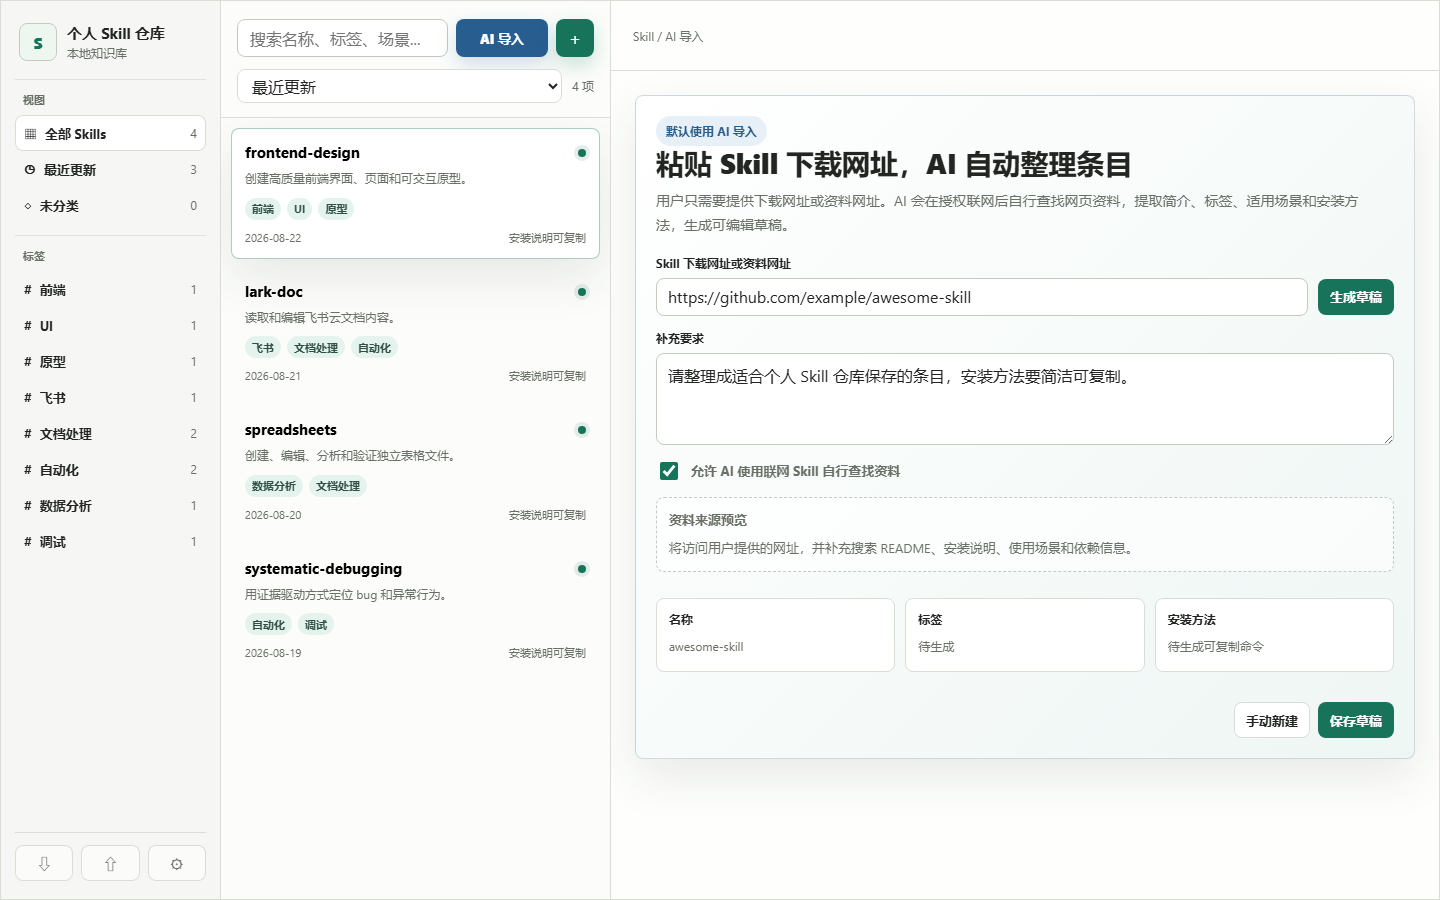
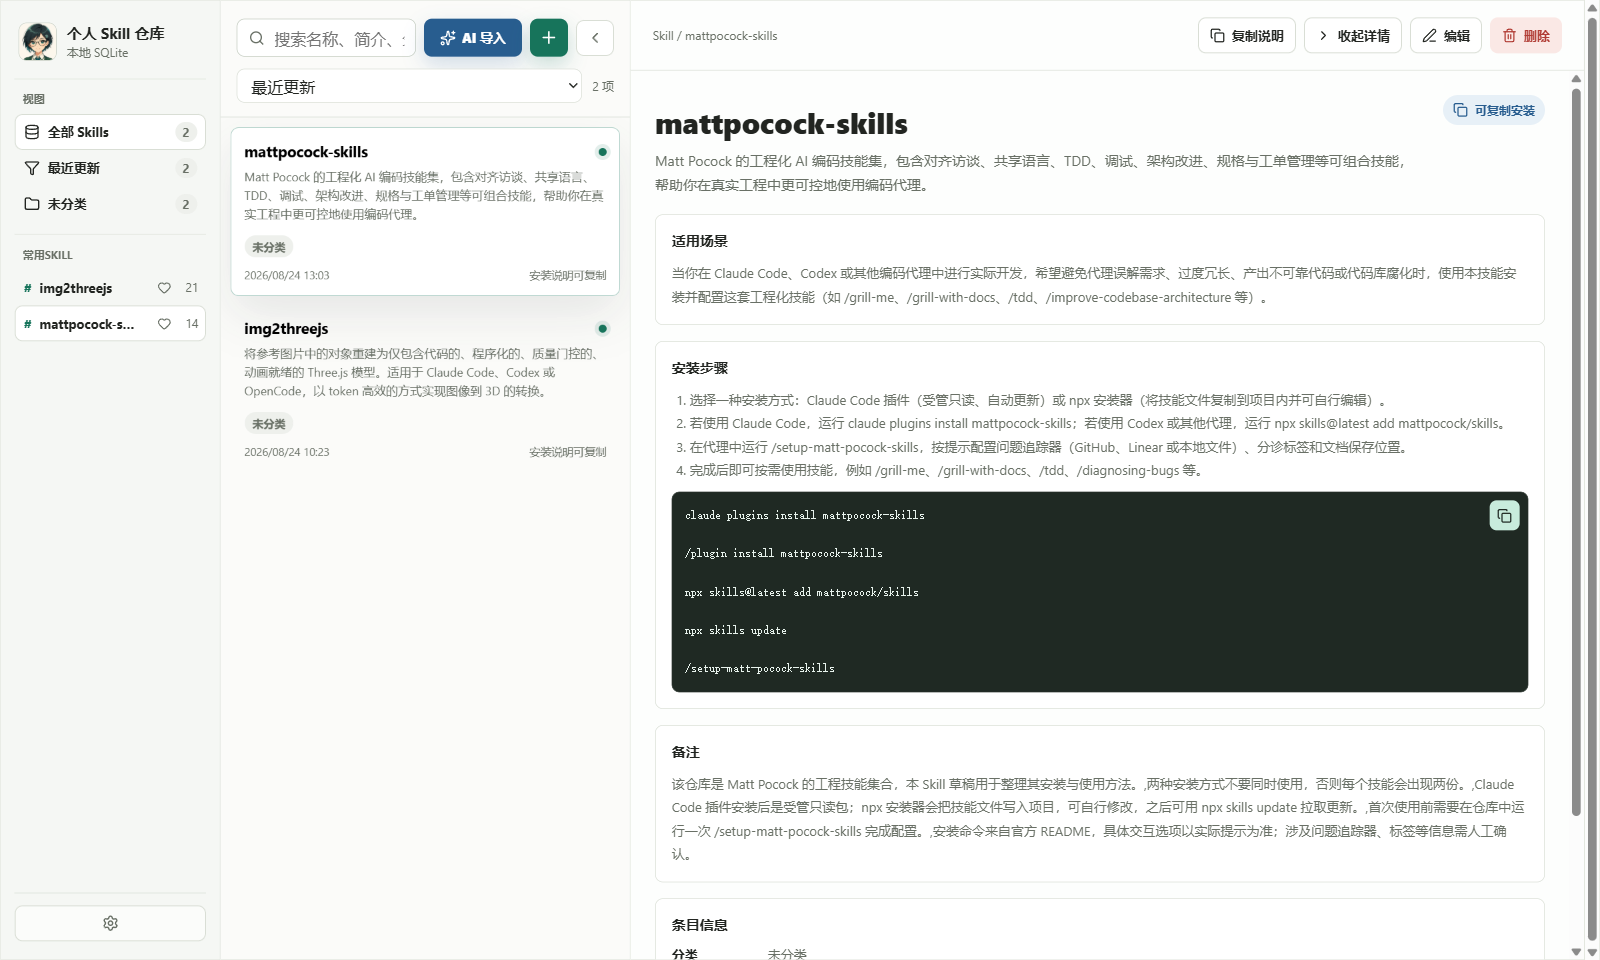
Polish detail sidebar layout

diff --git a/tests/detail-sidebar-layout.test.ts b/tests/detail-sidebar-layout.test.ts
@@ -1,0 +1,86 @@
+import { readFileSync } from "node:fs";
+import path from "node:path";
+import { describe, expect, it } from "vitest";
+
+type Declarations = Record<string, string>;
+
+function declarationsFromBlock(block: string): Declarations {
+  return Object.fromEntries(
+    block
+      .split(";")
+      .map((declaration) => declaration.trim())
+      .filter(Boolean)
+      .map((declaration) => {
+        const separatorIndex = declaration.indexOf(":");
+        return [
+          declaration.slice(0, separatorIndex).trim(),
+          declaration.slice(separatorIndex + 1).trim()
+        ];
+      })
+  );
+}
+
+function stripNestedAtRules(css: string): string {
+  let result = css;
+  let atRuleStart = result.search(/@(media|keyframes)\b/);
+
+  while (atRuleStart >= 0) {
+    const blockStart = result.indexOf("{", atRuleStart);
+    if (blockStart < 0) {
+      break;
+    }
+
+    let depth = 0;
+    let blockEnd = blockStart;
+    for (; blockEnd < result.length; blockEnd += 1) {
+      const char = result[blockEnd];
+      if (char === "{") {
+        depth += 1;
+      } else if (char === "}") {
+        depth -= 1;
+        if (depth === 0) {
+          blockEnd += 1;
+          break;
+        }
+      }
+    }
+
+    result = `${result.slice(0, atRuleStart)}${result.slice(blockEnd)}`;
+    atRuleStart = result.search(/@(media|keyframes)\b/);
+  }
+
+  return result;
+}
+
+function finalDeclaration(css: string, selector: string, property: string): string | undefined {
+  const rulePattern = /([^{}]+)\{([^{}]*)\}/g;
+  let declaration: string | undefined;
+
+  for (const rule of stripNestedAtRules(css).matchAll(rulePattern)) {
+    const selectors = rule[1].split(",").map((item) => item.trim());
+
+    if (selectors.includes(selector)) {
+      declaration = declarationsFromBlock(rule[2])[property] ?? declaration;
+    }
+  }
+
+  return declaration;
+}
+
+describe("detail sidebar layout", () => {
+  const css = readFileSync(path.resolve("src/renderer/styles.css"), "utf8");
+
+  it("keeps the common Skill navigation visible in detail mode", () => {
+    expect(finalDeclaration(css, ".app-shell.detail-active", "grid-template-columns")).toMatch(/^220px\b/);
+    expect(finalDeclaration(css, ".app-shell.detail-active.list-pane-collapsed", "grid-template-columns")).toMatch(/^220px\b/);
+    expect(finalDeclaration(css, ".app-shell.detail-active .common-skill-section", "display")).not.toBe("none");
+    expect(finalDeclaration(css, ".app-shell.detail-active .common-skill-item", "display")).not.toBe("none");
+    expect(finalDeclaration(css, ".app-shell.detail-active .section-title", "display")).not.toBe("none");
+  });
+
+  it("keeps detail view filters aligned like full sidebar rows", () => {
+    expect(finalDeclaration(css, ".nav-item", "justify-content")).toBe("space-between");
+    expect(finalDeclaration(css, ".app-shell.detail-active .nav-item", "justify-content")).not.toBe("center");
+    expect(finalDeclaration(css, ".app-shell.detail-active .nav-item", "padding")).not.toBe("0");
+  });
+});

diff --git a/src/renderer/styles.css b/src/renderer/styles.css
@@ -68,7 +68,7 @@ button:disabled {
 }
 
 .app-shell.detail-active {
-  grid-template-columns: 72px minmax(330px, 410px) minmax(520px, 1fr);
+  grid-template-columns: 220px minmax(330px, 410px) minmax(520px, 1fr);
 }
 
 .app-shell.list-pane-collapsed {
@@ -76,7 +76,7 @@ button:disabled {
 }
 
 .app-shell.detail-active.list-pane-collapsed {
-  grid-template-columns: 72px 48px minmax(520px, 1fr);
+  grid-template-columns: 220px 48px minmax(520px, 1fr);
 }
 
 .sidebar,
@@ -92,11 +92,6 @@ button:disabled {
   padding: 18px 14px;
   border-right: 1px solid var(--line);
   background: rgba(244, 246, 242, 0.88);
-}
-
-.app-shell.detail-active .sidebar {
-  align-items: center;
-  padding-inline: 10px;
 }
 
 .brand {
@@ -122,20 +117,6 @@ button:disabled {
 .brand-button:focus-visible {
   outline: 2px solid var(--green);
   outline-offset: 2px;
-}
-
-.app-shell.detail-active .brand {
-  grid-template-columns: 38px;
-  padding-inline: 0;
-  justify-content: center;
-}
-
-.app-shell.detail-active .brand > div:last-child,
-.app-shell.detail-active .section-title,
-.app-shell.detail-active .count,
-.app-shell.detail-active .common-skill-item,
-.app-shell.detail-active .nav-label span:last-child {
-  display: none;
 }
 
 .brand-avatar {
@@ -169,10 +150,6 @@ button:disabled {
   width: 100%;
 }
 
-.app-shell.detail-active .common-skill-section {
-  display: none;
-}
-
 .section-title {
   margin: 0 8px 8px;
   color: var(--muted);
@@ -192,11 +169,6 @@ button:disabled {
   color: var(--ink);
   background: transparent;
   text-align: left;
-}
-
-.app-shell.detail-active .nav-item {
-  justify-content: center;
-  padding: 0;
 }
 
 .nav-item:hover,
@@ -226,8 +198,16 @@ button:disabled {
 }
 
 .count {
+  display: inline-grid;
+  place-items: center;
+  min-width: 22px;
+  min-height: 20px;
+  padding: 0 7px;
+  border-radius: 999px;
   color: var(--muted);
+  background: #eef0ec;
   font-size: 12px;
+  font-weight: 700;
   font-variant-numeric: tabular-nums;
 }
 

diff --git a/README.md b/README.md
@@ -2,7 +2,7 @@
 
 SkillCore 是一个 Windows 优先的本地个人 Skill 仓库桌面应用，用来收藏、整理和维护常用 Skill 条目。每个条目聚焦于简短介绍、适用场景、标签、来源链接、安装步骤和可复制的安装命令。
 
-![SkillCore GUI prototype](prototype/skill-repository-gui.png)
+![SkillCore GUI screenshot](prototype/skill-repository-gui.png)
 
 ## 当前能力
 
@@ -50,6 +50,8 @@ npm run start
 
 ## 验证命令
 
+在项目根目录执行验证命令：
+
 ```powershell
 npm test
 npm run typecheck
@@ -57,7 +59,21 @@ npm run build
 npm run smoke
 ```
 
+本次详情页左侧“常用Skill”显示问题对应的专项回归测试是：
+
+```powershell
+npm test -- tests/detail-sidebar-layout.test.ts
+```
+
 `npm run smoke` 会以无窗口模式启动 Electron，并在渲染进程就绪后输出 `skill-repository-gui:smoke-ready`。
+
+需要手动查看界面时，先运行：
+
+```powershell
+npm run dev
+```
+
+在打开的桌面窗口中点击任意 Skill 进入详情页，左侧导航仍应显示“常用Skill”和常用条目。
 
 ## Windows 打包
 
